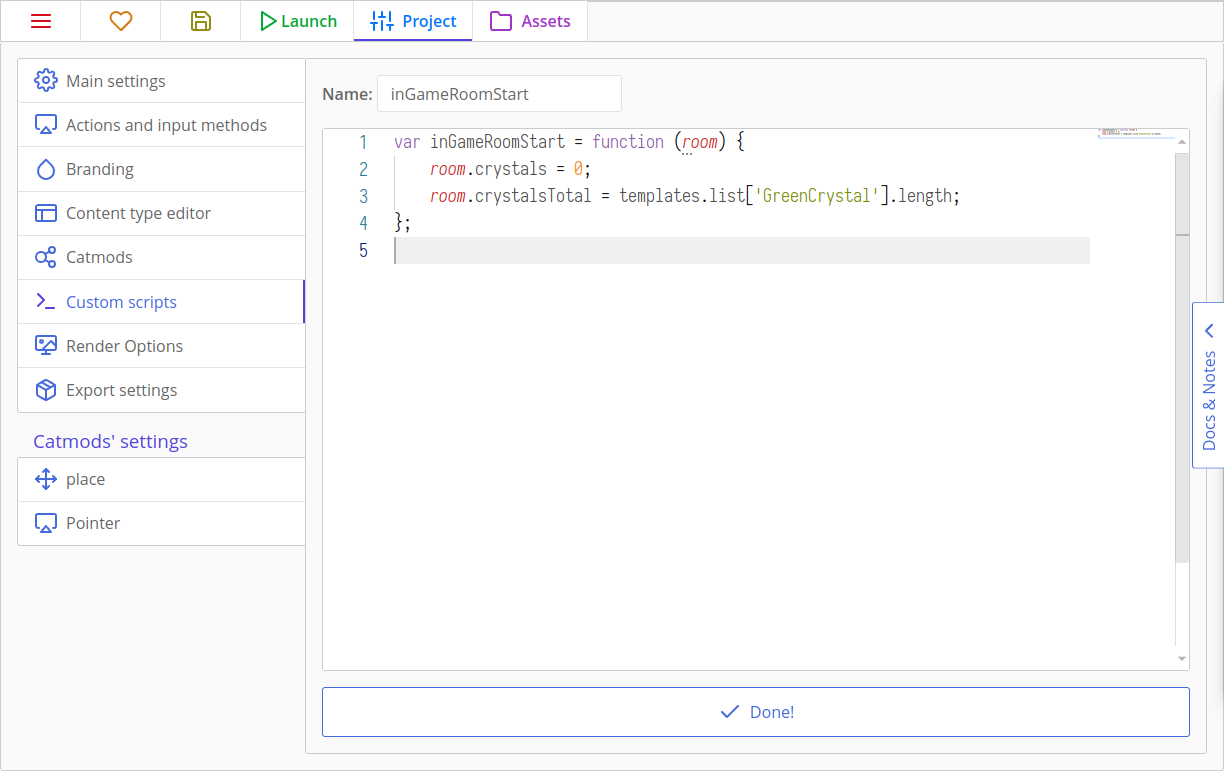
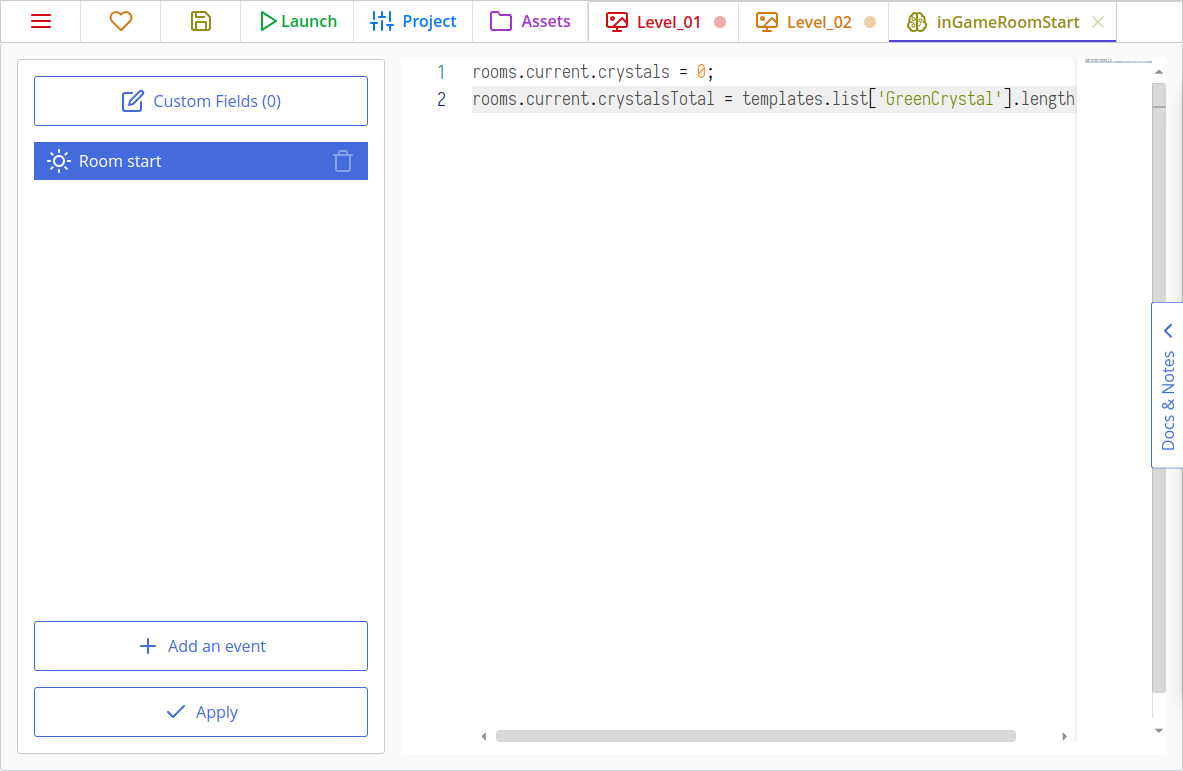
Replace custom scripts with room behaviors

diff --git a/docs/tutorials/making-games-platformer.md b/docs/tutorials/making-games-platformer.md
@@ -564,26 +564,20 @@ But if we continue to add more features to room-specific codes, we will soon fai
 
 So we need to create reusable functions now. This may look strange, but it is actually not that hard.
 
-Go to the "Project" tab on the top of the screen, then click the "Custom scripts" tab on the left. Press the "Add a New Script" button:
+Create a new asset, and this time select "Behaviors". Then pick a behavior for rooms and name it `inGameRoomStart`. This will allow us to write code that can then be applied to many rooms without needing to repeat the code!
 
-![Creating a reusable script](./../images/tutorials/tutPlatformer_20.png)
-
-Call a new script as `inGameRoomStart`. Write this code:
+Behaviors for rooms have events just like rooms do. Create a "Room start" event and write this code:
 
 ::: code-tabs#tutorial
 @tab JavaScript
 ```js
-var inGameRoomStart = function (room) {
-    room.crystals = 0;
-    room.crystalsTotal = templates.list['GreenCrystal'].length;
-};
+rooms.current.crystals = 0;
+rooms.current.crystalsTotal = templates.list['GreenCrystal'].length;
 ```
 @tab CoffeeScript
 ```coffee
-inGameRoomStart = (room) ->
-  room.crystals = 0
-  room.crystalsTotal = templates.list['GreenCrystal'].length
-  return
+rooms.current.crystals = 0
+rooms.current.crystalsTotal = templates.list['GreenCrystal'].length
 ```
 :::
 
@@ -593,22 +587,9 @@ inGameRoomStart = (room) ->
 
 ![Creating a reusable script](./../images/tutorials/tutPlatformer_21.png)
 
-Now go to each room, click the "Events" button in the top toolbar, add an event "Room start", and add this line there:
+Now go to each room, click the cog "Room properties" button in the sidebar, and then click on "Add a behavior" and select the new behavior we just made.
 
-::: code-tabs#tutorial
-@tab JavaScript
-```js
-inGameRoomStart(this);
-```
-@tab CoffeeScript
-```coffee
-inGameRoomStart this
-```
-:::
-
-Hmmm… it looks familiar! Like `place.free(this, this.x, this.y)`! That's actually how most of the ct.js methods work: you have a method, and you tell this method to do something with that copy or that room.
-
-When `inGameRoomStart(this);` is called it will set `crystals` and `crystalsTotal` parameters by itself, without the need to write such code directly to a room.
+Now the behavior is hooked up to the room and when the "Room start" event is called it will set `crystals` and `crystalsTotal` parameters by itself, without the need to write such code directly to a room.
 
 So that's how we gather and count the crystals, but we also need to create a simple interface to draw their count and do it with *style*. ✨
 
@@ -654,7 +635,7 @@ Adding UI elements to a separate room allows you to design UI visually, and then
 
 ![Enabling the layer as a UI layer](./../images/tutorials/tutPlatformer_LayerUICheckbox.png)
 
- Now, to import a UI room into another, go to our script `inGameRoomStart` created at the Project -> Custom scripts tab before, and add this code before the closing brace of the function:
+ Now, to import a UI room into another, go to our behavior `inGameRoomStart` in the assets view, and add this code:
 
 ::: code-tabs#tutorial
 @tab JavaScript
@@ -762,26 +743,22 @@ if rooms.current.lives <= 0
 ```
 :::
 
-And make sure to edit the `inGameRoomStart` function to initialize the room lives:
+And make sure to edit the `inGameRoomStart` behavior to initialize the room lives:
 
 ::: code-tabs#tutorial
 @tab JavaScript
-```js {3}
-var inGameRoomStart = function (room) {
-    room.crystals = 0;
-    room.lives = 3;
-    room.crystalsTotal = templates.list['GreenCrystal'].length;
-    rooms.append('LayerUI');
-};
-
+```js {2}
+rooms.current.crystals = 0;
+rooms.current.lives = 3;
+rooms.current.crystalsTotal = templates.list['GreenCrystal'].length;
+rooms.append('LayerUI');
 ```
 @tab CoffeeScript
-```coffee {3}
-inGameRoomStart = (room) ->
-    room.crystals = 0
-    room.lives = 3
-    room.crystalsTotal = templates.list['GreenCrystal'].length
-    rooms.append 'LayerUI'
+```coffee {2}
+rooms.current.crystals = 0
+rooms.current.lives = 3
+rooms.current.crystalsTotal = templates.list['GreenCrystal'].length
+rooms.append 'LayerUI'
 ```
 :::
 
